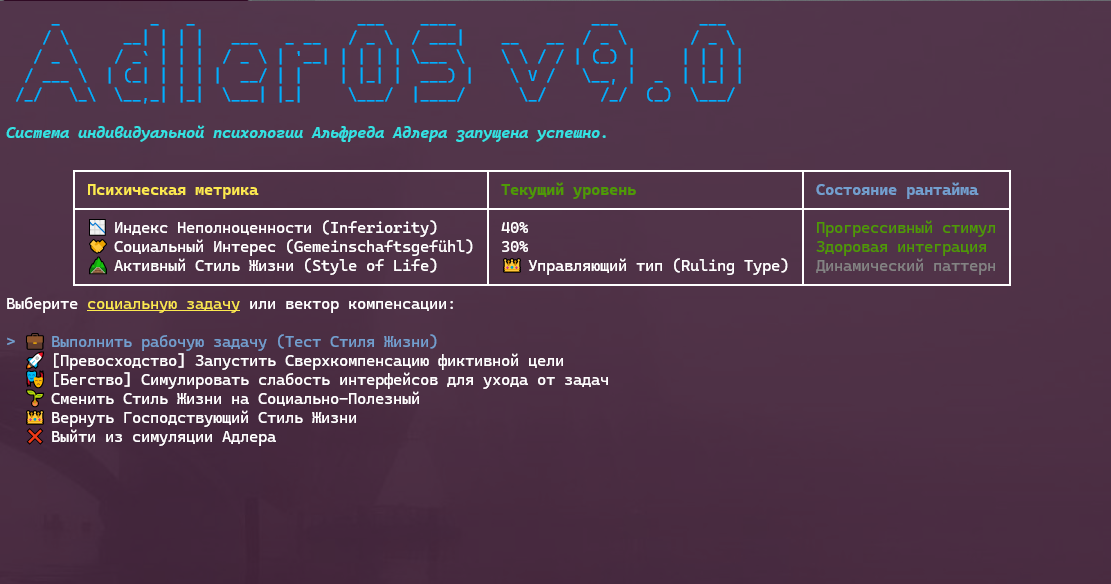
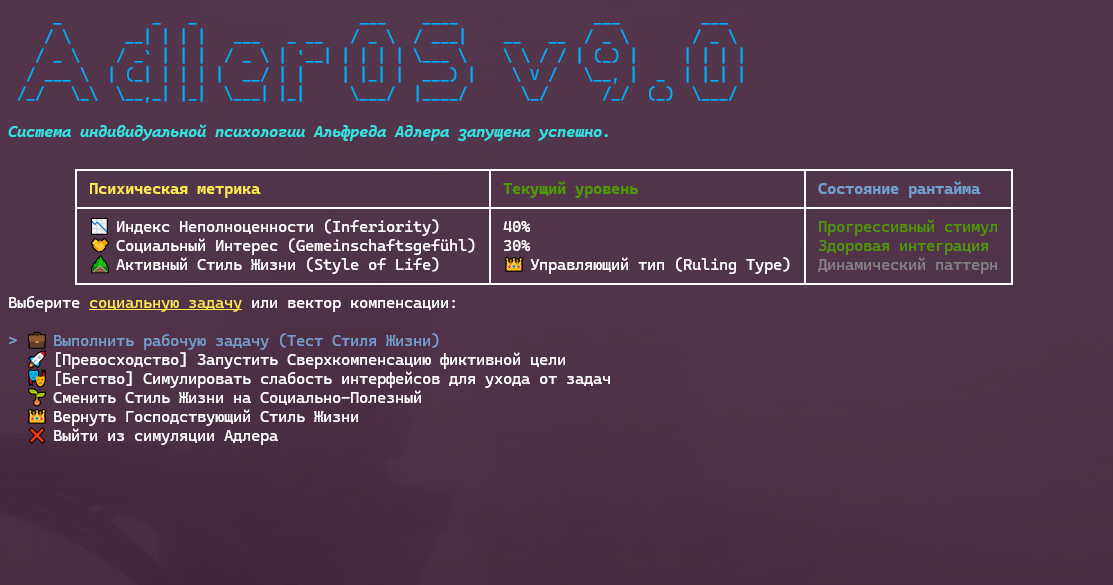
README fix

diff --git a/README.md b/README.md
@@ -73,3 +73,5 @@ mind.Compensate(finalism.Overcompensation);
 1. **Запрет на Управляющий Тип в PR:** Pull Request'ы, которые переписывают чужие модули без обсуждения, содержат токсичные комментарии или пытаются доминировать в архитектуре, будут закрыты. Ваш личный индекс неполноценности при этом будет принудительно поднят до 99%.
 2. **Запрет на бегство в болезнь (Organ Inferiority):** Коммиты с описанием `"исправил какой-то баг, потому что у меня не работал компилятор и вообще всё плохо"` отклоняются. Ошибки сборки — это не повод для жалости рантайма, а стимул к здоровой компенсации через чтение логов.
 3. **Общность интерфейсов:** Любой новый Свойство или Метод должен иметь высокий уровень зацепления (Cohesion) и служить целям интеграции, а не обособления. Мы строим распределенную систему, а не изолированный монолит.
+
+![screenshot](./docs/screenshot.png)
